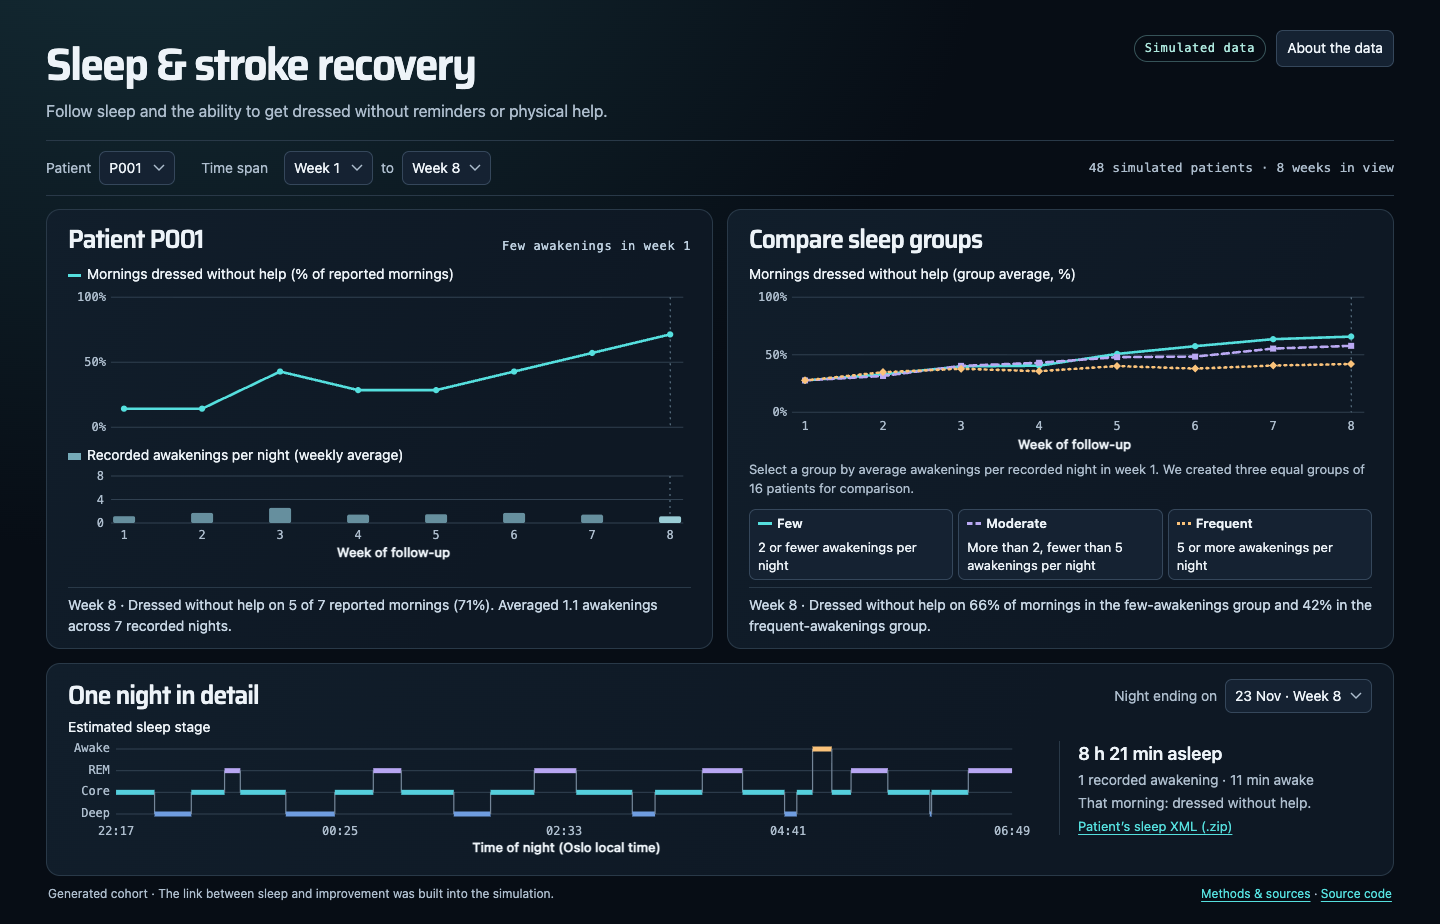
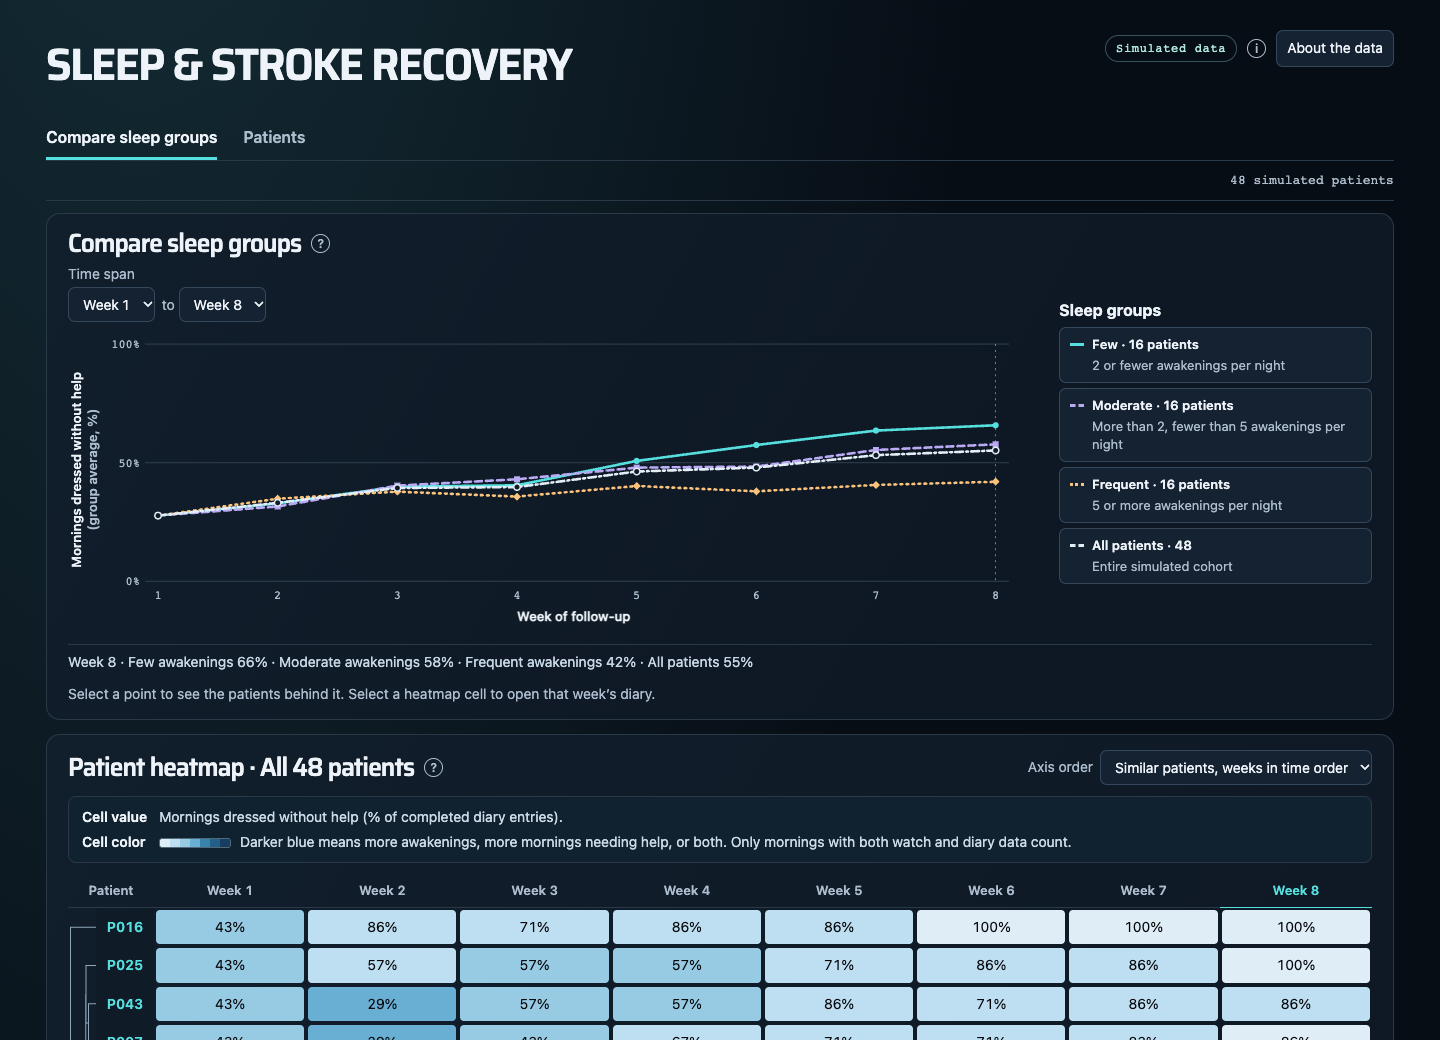
Document the heatmap calculations and patient diary walkthrough
Explain the denominators, ordering options and fixed clock scale. Follow one simulated patient-week from its percentage to the underlying morning reports and include desktop and phone previews.

diff --git a/README.md b/README.md
@@ -4,20 +4,20 @@
 
 Explore how sleep interruptions and the ability to get dressed without help change over eight weeks after stroke. All 48 patients are fictional. The simulation intentionally gives the groups different average recovery patterns.
 
-To try it, select **Frequent** in **Compare sleep groups**. The patient list narrows to the 16 people in that group. Choose one patient and a morning to compare their overnight sleep stages with the help they needed to get dressed.
+To try it, select **Frequent** in **Compare sleep groups**. The heatmap narrows to the 16 patients whose watch recorded at least five awakenings per night on average in week 1. Open **P012, Week 8**. The cell reads **0%**. The diary shows why: the patient needed help on all six reported mornings and left one morning unanswered.
 
-[![Dashboard preview showing a patient diary, three sleep groups and one night of sleep stages](docs/dashboard-preview.png)](https://angelinasverchkova.github.io/sleep-recovery-explorer/)
+[![Dashboard preview showing sleep group trends above a blue heatmap with one row per patient](docs/dashboard-preview.png)](https://angelinasverchkova.github.io/sleep-recovery-explorer/)
 
 ## Explore the dashboard
 
 The live dashboard opens in a browser on desktop or mobile. For an offline copy, choose **Code → Download ZIP** on GitHub, unzip the whole project and open **index.html**.
 
-1. Choose a patient and a first and last week. The left figure shows how often that patient dressed without help. The bars beneath it show how interrupted their sleep was over the same weeks.
-2. Compare three lines in the right figure. Each represents patients grouped by average sleep interruptions during week 1. Select a group to highlight its line and browse its patients. Select it again to restore everyone.
-3. Choose a week on either chart or a morning in the lower panel. Read the overnight stage trace from left to right and compare it with the person's report the next morning. The weekday selections and patient controls also work with the keyboard.
-4. Open **About the data** for the study context and definitions. **Patient’s sleep XML** downloads the selected patient's generated export archive.
+1. **Compare sleep groups** opens with all 48 patients. Three lines track groups defined by average awakenings in week 1. The fourth line gives the overall average. Select a point or a group to filter the heatmap. Use the time span controls to focus on particular weeks.
+2. **Patient heatmap** shows one patient per row and one week per column. The number is the percentage of reported mornings dressed without help. Darker blues indicate more awakenings, more help needed, or both, on days with both records. Weeks start in calendar order. The axis order menu also lets you group similar weeks or sort patients by ID.
+3. **Patients** shows one person's weekly dressing reports and average awakenings. Opening a heatmap cell takes you to that exact patient and week. In the seven-day morning diary, select a date to see the preceding night’s estimated stages on a clock marked in CET (UTC+1). The link beside the trace downloads that patient's generated sleep XML in a ZIP. [Mobile diary preview](docs/patient-diary-mobile.png)
+4. **About the data** explains the study and the simulation. The full [methods and sources](docs/methods.md) include the calculations and missing-data rules.
 
-To explore a weekly line chart with the keyboard, tab to it and use the arrow keys to move between weeks. Home and End select the first and last weeks in the visible range.
+On a weekly chart, the left and right arrow keys move between weeks. Home and End select the first and last visible weeks. In the heatmap, use the arrow keys to move between cells and Enter to open a diary.
 
 ## Study and demonstration
 
@@ -30,6 +30,8 @@ Yang and colleagues followed 306 stroke survivors and found an association betwe
 | `index.html` | Offline dashboard entry point, controls and study notes |
 | `assets/model.js` | Weekly summaries and group comparison rules |
 | `assets/charts.js` | Responsive SVG figures |
+| `assets/profiles.js` | Paired weekly observations and average-linkage clustering |
+| `assets/matrix.js` | Interactive patient-by-week heatmap, branching diagrams and keyboard navigation |
 | `assets/app.js` | Patient selection, linked time window, group selection and night inspection |
 | `assets/style.css` | Layout, typography and colour system |
 | `pipeline/generate.py` | Seeded simulation, synthetic Apple exports and data build |
@@ -49,7 +51,7 @@ On Windows, if Python cannot find the `Europe/Oslo` time zone, run `py -m pip in
 ```sh
 python3 -m pipeline.generate
 python3 -m unittest discover -s tests -p "test_*.py" -v
-node --test tests/model.test.cjs
+node --test tests/model.test.cjs tests/profiles.test.cjs
 ```
 
 To generate independently in another directory, pass `--output PATH`. The same seed, generator and Python runtime produce the same cohort. Generated files are staged before replacement. The browser reads one bundle, replaced last, so it always sees a complete dataset.

diff --git a/docs/methods.md b/docs/methods.md
@@ -57,6 +57,14 @@ This illustrates the structure. Unzip any file in `data/apple_health/` to inspec
 | Cohort line in each week | Arithmetic mean of available individual percentages in the fixed baseline group. Each patient has equal weight. It can differ from pooling all diary entries |
 | Night selection | The evening leading into the selected local morning, paired with that morning’s diary entry. Week numbers count from the first day of synthetic observation |
 
+### Reading a heatmap cell
+
+Each patient-week has two summaries. The printed percentage uses every completed dressing report. The blue shade uses only mornings with both a watch recording and a diary entry. For these paired mornings, calculate the mean number of awakenings and the fraction of mornings needing any help. Divide the mean awakenings by the largest nightly awakening count across all paired records in the dataset (at least one for scaling). Average the two quantities with equal weights and map the result to seven blue shades. The same scale applies across patients, filters and weeks. Grey marks a week without a pair, and a dash marks a week without a diary entry. The colour is a visual summary chosen for this simulation.
+
+The default order groups patients with similar profiles and keeps weeks chronological. Distances use the root mean square difference on the two scaled measures across weeks where both patients have paired observations. Average-linkage clustering combines groups using the mean of available pairwise distances. Records with no comparable observations remain separate. The optional clustered-week view applies the same procedure across patients. Sorting by patient ID restores a simple lookup table. These display choices do not alter week 1 sleep group membership.
+
+The night chart and recording times use fixed CET (UTC+1) so the clock advances uniformly even across the autumn clock change. The XML retains the offset used in Oslo at the time of each observation, including summer time (UTC+2). Morning dates follow the original Oslo calendar.
+
 ### Missingness and variation
 
 The generator may omit a whole watch night and may separately omit a morning report. In the delivered data, 103 of 2,688 patient-nights have no recording and 54 morning reports are missing. Missing records lower only the relevant denominator. A week with no diary reports has no independence estimate. A night with zero interruptions has a valid sleep record and differs from a missing night. Percentages in early and late weeks can be noisy because there are at most seven morning reports.
